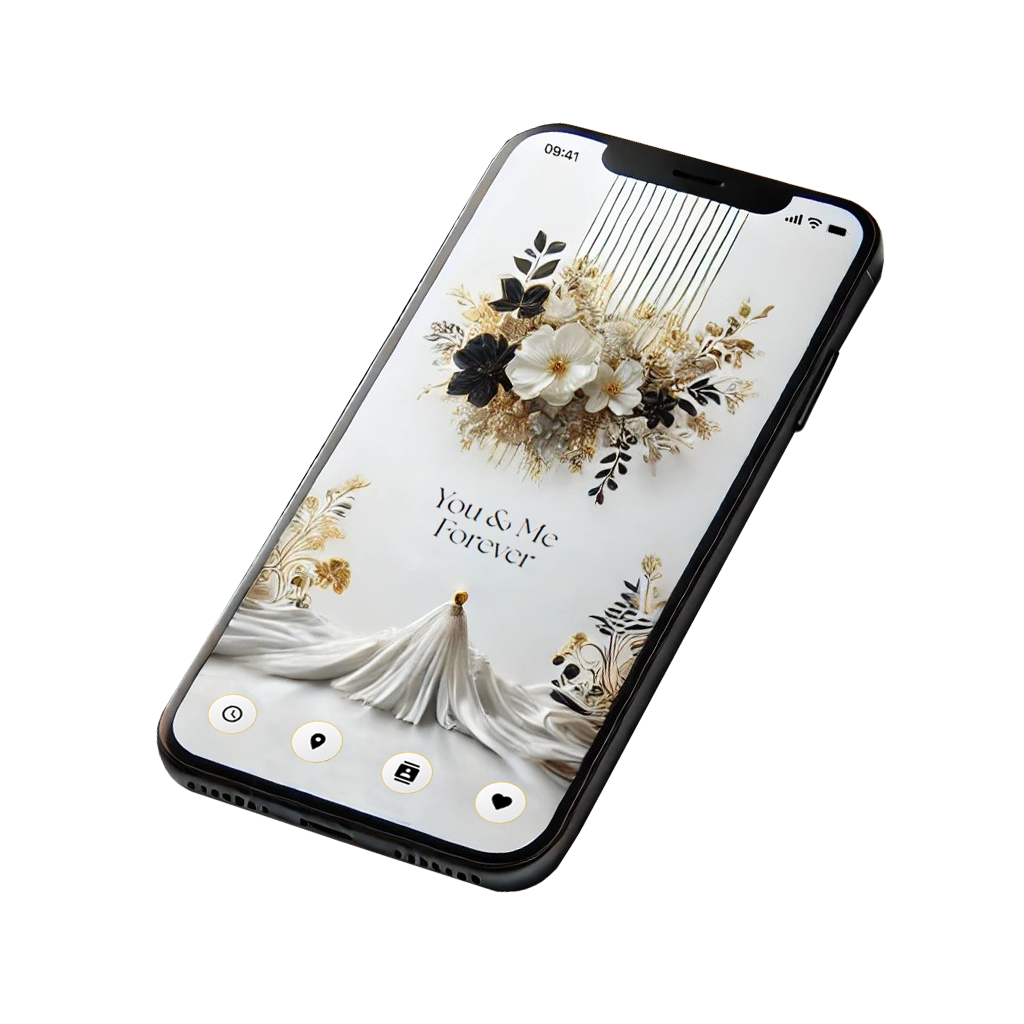
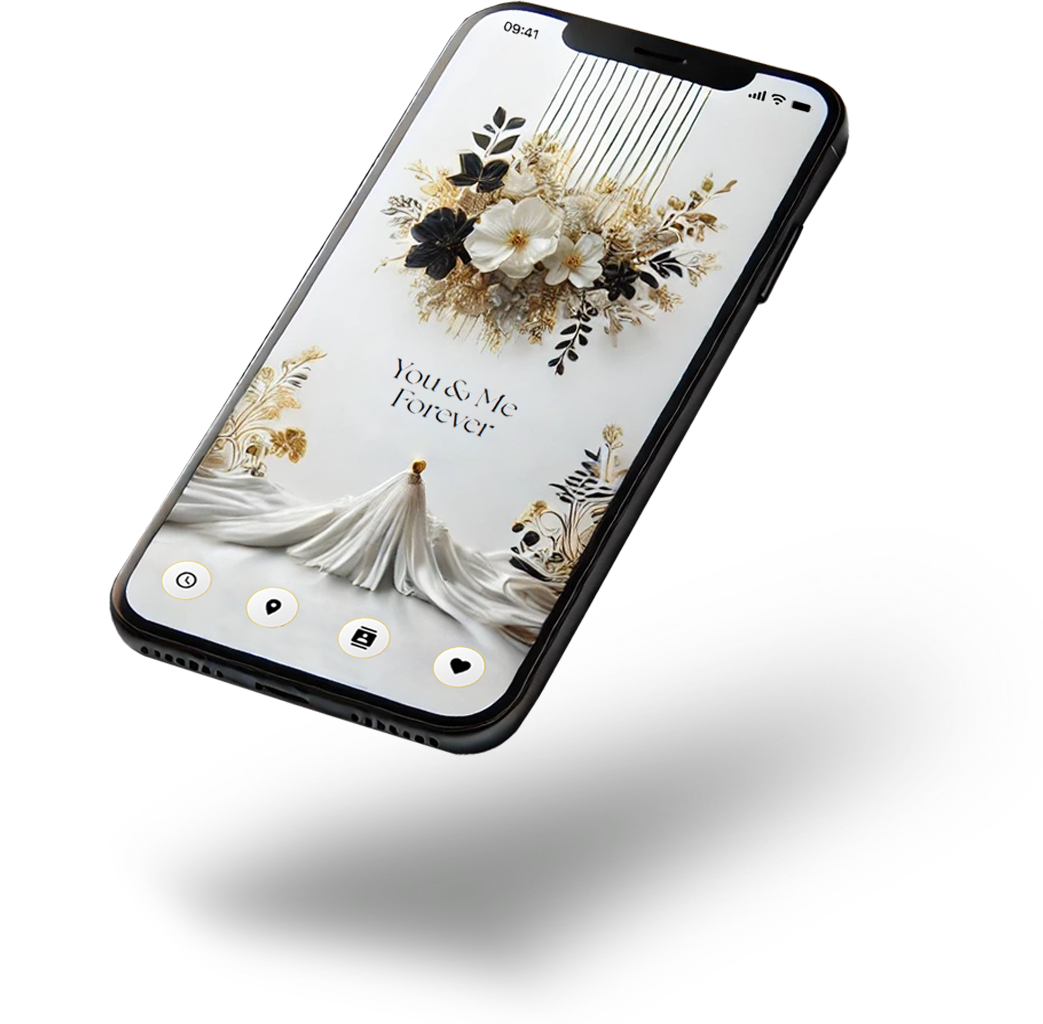
UPD handy mit schatten und platzierung

diff --git a/css/style.css b/css/style.css
@@ -131,20 +131,22 @@ main {
 /* Hero Section */
 .hero {
   position: relative;
-  background: url('../images/Handy_Webseite_Startseite_mit_Schrift.png') no-repeat calc(80%) calc(50% + 100px);
-  background-size: cover;
+  background: url('../images/Handy_Webseite_Startseite_mit_Schrift.png') no-repeat calc(50vw) calc(35vh);
   color: #000;
   text-align: center;
   display: flex;
   align-items: center;
   justify-content: center;
-  background-size: 50%;
+  background-size: 40%;
 }
+
 @media (max-width: 768px) {
   .hero {
-    background: url('../images/Handy_Webseite_Startseite_mit_Schrift.png') no-repeat calc(50% + 80px) calc(50% + 200px);
+    background: url('../images/Handy_Webseite_Startseite_mit_Schrift.png') no-repeat calc(30vw) calc(55vh);
+    background-size: 80%;
   }
 }
+
 .hero-content {
   position: relative;
   z-index: 2;
@@ -405,7 +407,6 @@ main {
 
 @media (max-width: 768px) {
   .section {
-    min-height: calc(100vh - 80px);
     display: flex;
     flex-direction: column;
     align-items: center;
@@ -414,9 +415,6 @@ main {
   }
   .hero h1 {
     font-size: 2.5rem;
-  }
-  .hero {
-    background-size: 100%;
   }
   .hero p {
     font-size: 1.1rem;
